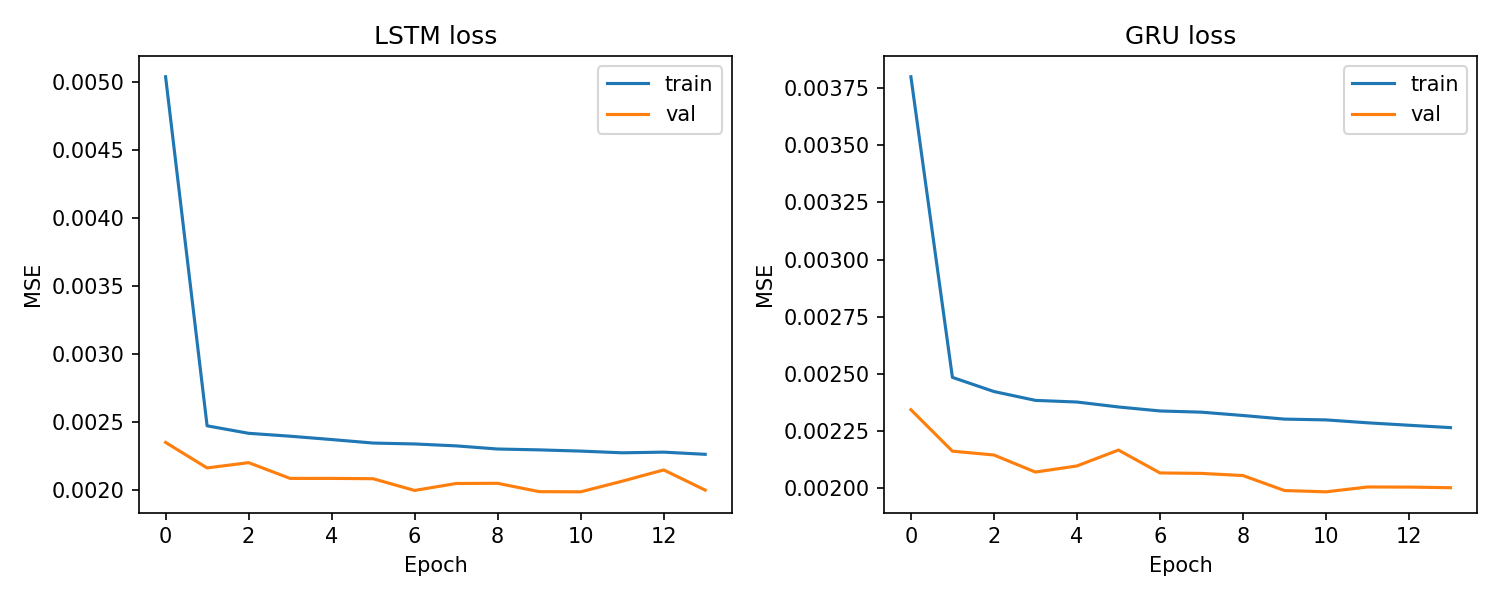
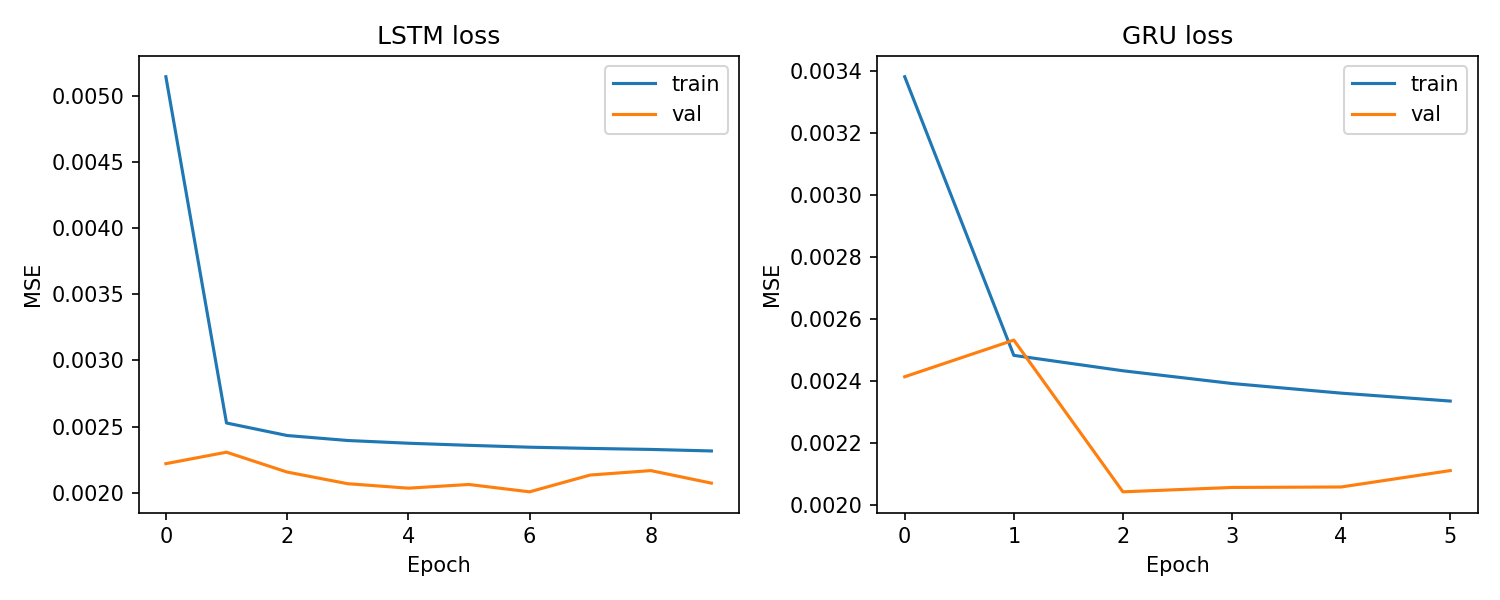
added comparison plot into evaluate.py

diff --git a/evaluate.py b/evaluate.py
@@ -2,6 +2,40 @@ import numpy as np
 import matplotlib.pyplot as plt
 import os
 
+def plot_daily_prediction(results, y_test, scalers):
+    # inverse transform predictions and actual back to real vehicle counts
+    any_scaler = list(scalers.values())[0]
+    actual_real = any_scaler.inverse_transform(y_test.reshape(-1, 1)).flatten()
+
+    # generate time labels for one full day (96 intervals of 15 min)
+    times = [f'{h:02d}:{m:02d}' for h in range(24) for m in (0, 15, 30, 45)]
+
+    # use one full day worth of test data (96 steps)
+    one_day = 96
+    actual_day = actual_real[:one_day]
+
+    plt.figure(figsize=(14, 5))
+    plt.plot(times, actual_day, label='True Data', color='blue', alpha=0.7)
+
+    colors = ['orange', 'green', 'red', 'purple']
+    for r, color in zip(results, colors):
+        preds_real = any_scaler.inverse_transform(r['predictions'].reshape(-1, 1)).flatten()
+        plt.plot(times, preds_real[:one_day], label=r['name'], color=color, alpha=0.85)
+
+    # only show every 8th label so x axis isn't crowded
+    ax = plt.gca()
+    ax.set_xticks(range(0, 96, 8))
+    ax.set_xticklabels(times[::8], rotation=45)
+
+    plt.title('Traffic Flow Prediction vs True Data (One Day)')
+    plt.xlabel('Time of Day')
+    plt.ylabel('Flow (vehicles/15min)')
+    plt.legend()
+    plt.tight_layout()
+    plt.savefig('plots/daily_prediction.png', dpi=150)
+    plt.show()
+    print('Saved plots/daily_prediction.png')
+
 def evaluate_all(results, y_test, scalers):
     # use any scaler to inverse transform back to real vehicle counts
     # all sites are normalised the same way so any scaler works as a reference
@@ -70,3 +104,6 @@ def evaluate_all(results, y_test, scalers):
     plt.tight_layout()
     plt.savefig('plots/predictions.png', dpi=150)
     plt.show()
+
+    # daily prediction plot comparing all models against true data
+    plot_daily_prediction(results, y_test, scalers)
